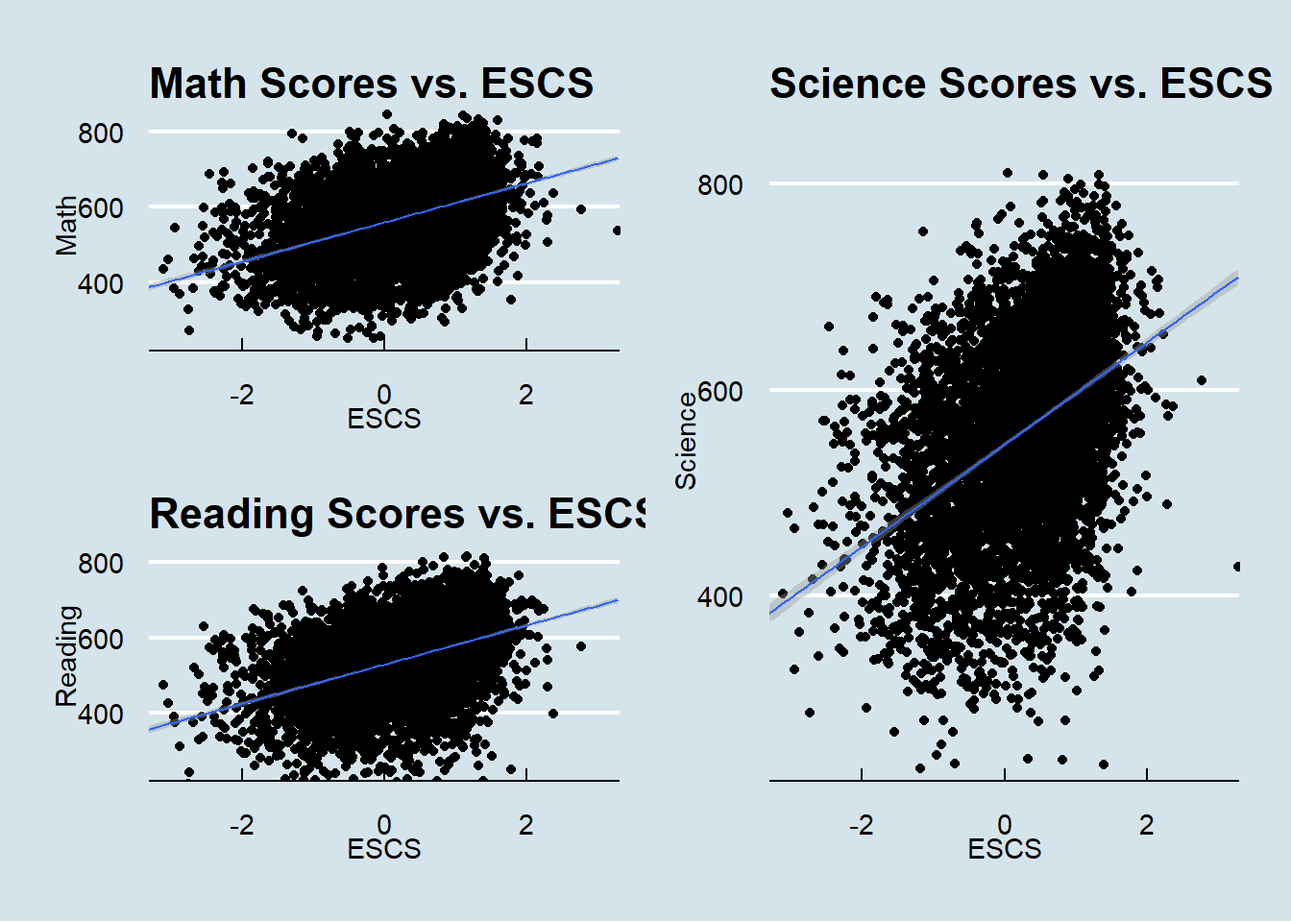
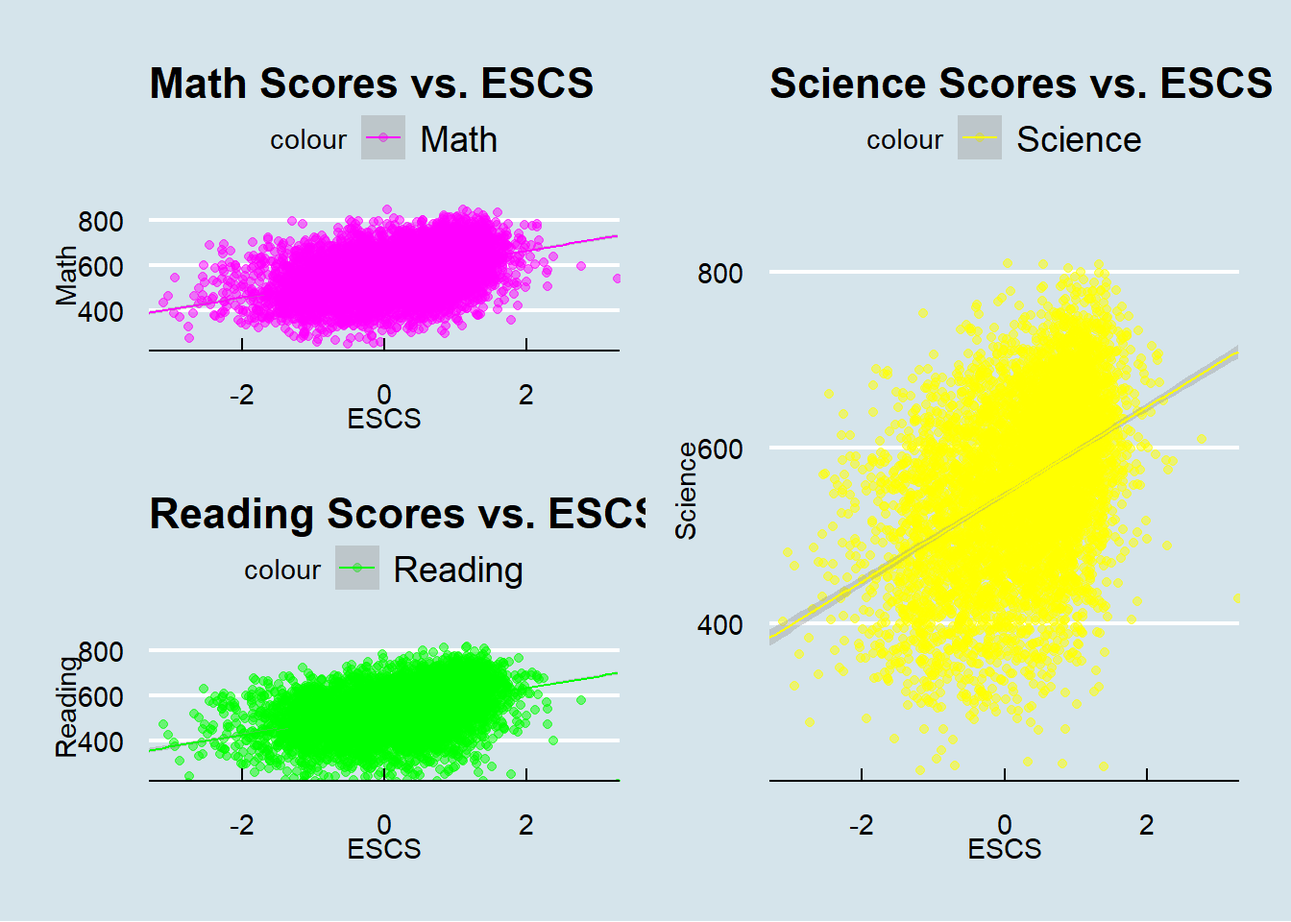
Commit after editing take-home_Ex01

diff --git a/_site/Take-home_Ex/Take-home_Ex01/Take-home_Ex01.html b/_site/Take-home_Ex/Take-home_Ex01/Take-home_Ex01.html
@@ -193,7 +193,7 @@ pre > code.sourceCode > span > a:first-child::before { text-decoration: underlin
   <ul class="collapse">
   <li><a href="#find-the-relative-math-score-data-in-stu_qqq_sg-dataset" id="toc-find-the-relative-math-score-data-in-stu_qqq_sg-dataset" class="nav-link" data-scroll-target="#find-the-relative-math-score-data-in-stu_qqq_sg-dataset">1.Find the relative math score data in ‘stu_qqq_SG’ dataset</a></li>
   <li><a href="#add-new-columns-for-mathreading-and-science" id="toc-add-new-columns-for-mathreading-and-science" class="nav-link" data-scroll-target="#add-new-columns-for-mathreading-and-science">2.Add new columns for math,reading and science</a></li>
-  <li><a href="#create-new-table-for-later-analysis" id="toc-create-new-table-for-later-analysis" class="nav-link" data-scroll-target="#create-new-table-for-later-analysis">3.Create new table for later analysis</a></li>
+  <li><a href="#create-new-clean-table-for-later-on-analysis" id="toc-create-new-clean-table-for-later-on-analysis" class="nav-link" data-scroll-target="#create-new-clean-table-for-later-on-analysis">3.Create new clean table for later-on analysis</a></li>
   </ul></li>
   </ul></li>
   <li><a href="#data-analysis" id="toc-data-analysis" class="nav-link" data-scroll-target="#data-analysis">4.DATA ANALYSIS</a>
@@ -302,6 +302,7 @@ pre > code.sourceCode > span > a:first-child::before { text-decoration: underlin
 </section>
 <section id="add-new-columns-for-mathreading-and-science" class="level3">
 <h3 class="anchored" data-anchor-id="add-new-columns-for-mathreading-and-science">2.Add new columns for math,reading and science</h3>
+<p>Calculate the average score of the three courses separately.</p>
 <div class="cell">
 <details>
 <summary>Code</summary>
@@ -314,8 +315,8 @@ pre > code.sourceCode > span > a:first-child::before { text-decoration: underlin
 </details>
 </div>
 </section>
-<section id="create-new-table-for-later-analysis" class="level3">
-<h3 class="anchored" data-anchor-id="create-new-table-for-later-analysis">3.Create new table for later analysis</h3>
+<section id="create-new-clean-table-for-later-on-analysis" class="level3">
+<h3 class="anchored" data-anchor-id="create-new-clean-table-for-later-on-analysis">3.Create new clean table for later-on analysis</h3>
 <p>Select relative columns and create new_data with 7 columns and 6606 ids. Then see the total view of the data, where find that there are 47 missing values which can be considered deleted.</p>
 <div class="cell">
 <details>
@@ -402,6 +403,7 @@ pre > code.sourceCode > span > a:first-child::before { text-decoration: underlin
 </section>
 <section id="subject-performance-by-different-schools" class="level2">
 <h2 class="anchored" data-anchor-id="subject-performance-by-different-schools">4.3 Subject Performance by different schools</h2>
+<p>From the plot, we could see that students in school 003 get highest score in math and science. Students in school 062 get the highest score in subject. However, students in school 149 perform the worst in all three courses.</p>
 <div class="cell">
 <details>
 <summary>Code</summary>
@@ -415,49 +417,39 @@ pre > code.sourceCode > span > a:first-child::before { text-decoration: underlin
 <span id="cb11-8"><a href="#cb11-8" aria-hidden="true" tabindex="-1"></a>    <span class="at">.groups =</span> <span class="st">'drop'</span></span>
 <span id="cb11-9"><a href="#cb11-9" aria-hidden="true" tabindex="-1"></a>  )</span>
 <span id="cb11-10"><a href="#cb11-10" aria-hidden="true" tabindex="-1"></a></span>
-<span id="cb11-11"><a href="#cb11-11" aria-hidden="true" tabindex="-1"></a><span class="co"># Find the top and bottom schools for each subject</span></span>
-<span id="cb11-12"><a href="#cb11-12" aria-hidden="true" tabindex="-1"></a>top_bottom_schools <span class="ot">&lt;-</span> school_averages <span class="sc">%&gt;%</span></span>
-<span id="cb11-13"><a href="#cb11-13" aria-hidden="true" tabindex="-1"></a>  <span class="fu">summarize</span>(</span>
-<span id="cb11-14"><a href="#cb11-14" aria-hidden="true" tabindex="-1"></a>    <span class="at">Top_Math_ID =</span> CNTSCHID[<span class="fu">which.max</span>(Math)],</span>
-<span id="cb11-15"><a href="#cb11-15" aria-hidden="true" tabindex="-1"></a>    <span class="at">Top_Math_Score =</span> <span class="fu">max</span>(Math),</span>
-<span id="cb11-16"><a href="#cb11-16" aria-hidden="true" tabindex="-1"></a>    <span class="at">Bottom_Math_ID =</span> CNTSCHID[<span class="fu">which.min</span>(Math)],</span>
-<span id="cb11-17"><a href="#cb11-17" aria-hidden="true" tabindex="-1"></a>    <span class="at">Bottom_Math_Score =</span> <span class="fu">min</span>(Math),</span>
-<span id="cb11-18"><a href="#cb11-18" aria-hidden="true" tabindex="-1"></a>    <span class="at">Top_Reading_ID =</span> CNTSCHID[<span class="fu">which.max</span>(Reading)],</span>
-<span id="cb11-19"><a href="#cb11-19" aria-hidden="true" tabindex="-1"></a>    <span class="at">Top_Reading_Score =</span> <span class="fu">max</span>(Reading),</span>
-<span id="cb11-20"><a href="#cb11-20" aria-hidden="true" tabindex="-1"></a>    <span class="at">Bottom_Reading_ID =</span> CNTSCHID[<span class="fu">which.min</span>(Reading)],</span>
-<span id="cb11-21"><a href="#cb11-21" aria-hidden="true" tabindex="-1"></a>    <span class="at">Bottom_Reading_Score =</span> <span class="fu">min</span>(Reading),</span>
-<span id="cb11-22"><a href="#cb11-22" aria-hidden="true" tabindex="-1"></a>    <span class="at">Top_Science_ID =</span> CNTSCHID[<span class="fu">which.max</span>(Science)],</span>
-<span id="cb11-23"><a href="#cb11-23" aria-hidden="true" tabindex="-1"></a>    <span class="at">Top_Science_Score =</span> <span class="fu">max</span>(Science),</span>
-<span id="cb11-24"><a href="#cb11-24" aria-hidden="true" tabindex="-1"></a>    <span class="at">Bottom_Science_ID =</span> CNTSCHID[<span class="fu">which.min</span>(Science)],</span>
-<span id="cb11-25"><a href="#cb11-25" aria-hidden="true" tabindex="-1"></a>    <span class="at">Bottom_Science_Score =</span> <span class="fu">min</span>(Science)</span>
-<span id="cb11-26"><a href="#cb11-26" aria-hidden="true" tabindex="-1"></a>  )</span>
-<span id="cb11-27"><a href="#cb11-27" aria-hidden="true" tabindex="-1"></a></span>
-<span id="cb11-28"><a href="#cb11-28" aria-hidden="true" tabindex="-1"></a><span class="co"># Reshape for plotting</span></span>
-<span id="cb11-29"><a href="#cb11-29" aria-hidden="true" tabindex="-1"></a>school_averages_long <span class="ot">&lt;-</span> school_averages <span class="sc">%&gt;%</span></span>
-<span id="cb11-30"><a href="#cb11-30" aria-hidden="true" tabindex="-1"></a>  <span class="fu">pivot_longer</span>(</span>
-<span id="cb11-31"><a href="#cb11-31" aria-hidden="true" tabindex="-1"></a>    <span class="at">cols =</span> <span class="fu">c</span>(Math, Reading, Science),</span>
-<span id="cb11-32"><a href="#cb11-32" aria-hidden="true" tabindex="-1"></a>    <span class="at">names_to =</span> <span class="st">"Subject"</span>,</span>
-<span id="cb11-33"><a href="#cb11-33" aria-hidden="true" tabindex="-1"></a>    <span class="at">values_to =</span> <span class="st">"Average_Score"</span></span>
-<span id="cb11-34"><a href="#cb11-34" aria-hidden="true" tabindex="-1"></a>  )</span>
-<span id="cb11-35"><a href="#cb11-35" aria-hidden="true" tabindex="-1"></a></span>
-<span id="cb11-36"><a href="#cb11-36" aria-hidden="true" tabindex="-1"></a><span class="co"># Create the plot</span></span>
-<span id="cb11-37"><a href="#cb11-37" aria-hidden="true" tabindex="-1"></a><span class="fu">ggplot</span>(school_averages_long, <span class="fu">aes</span>(<span class="at">x =</span> Subject, <span class="at">y =</span> Average_Score)) <span class="sc">+</span></span>
-<span id="cb11-38"><a href="#cb11-38" aria-hidden="true" tabindex="-1"></a>  <span class="fu">geom_jitter</span>(<span class="fu">aes</span>(<span class="at">color =</span> CNTSCHID), <span class="at">width =</span> <span class="fl">0.2</span>) <span class="sc">+</span></span>
-<span id="cb11-39"><a href="#cb11-39" aria-hidden="true" tabindex="-1"></a>  <span class="fu">geom_text</span>(<span class="at">data =</span> top_bottom_schools, <span class="fu">aes</span>(<span class="at">x =</span> <span class="dv">1</span>, <span class="at">y =</span> Top_Math_Score, <span class="at">label =</span> Top_Math_ID), <span class="at">vjust =</span> <span class="dv">2</span>) <span class="sc">+</span></span>
-<span id="cb11-40"><a href="#cb11-40" aria-hidden="true" tabindex="-1"></a>  <span class="fu">geom_text</span>(<span class="at">data =</span> top_bottom_schools, <span class="fu">aes</span>(<span class="at">x =</span> <span class="dv">1</span>, <span class="at">y =</span> Bottom_Math_Score, <span class="at">label =</span> Bottom_Math_ID), <span class="at">vjust =</span> <span class="dv">2</span>) <span class="sc">+</span></span>
-<span id="cb11-41"><a href="#cb11-41" aria-hidden="true" tabindex="-1"></a>  <span class="fu">geom_text</span>(<span class="at">data =</span> top_bottom_schools, <span class="fu">aes</span>(<span class="at">x =</span> <span class="dv">2</span>, <span class="at">y =</span> Top_Reading_Score, <span class="at">label =</span> Top_Reading_ID), <span class="at">vjust =</span> <span class="sc">-</span><span class="dv">1</span>) <span class="sc">+</span></span>
-<span id="cb11-42"><a href="#cb11-42" aria-hidden="true" tabindex="-1"></a>  <span class="fu">geom_text</span>(<span class="at">data =</span> top_bottom_schools, <span class="fu">aes</span>(<span class="at">x =</span> <span class="dv">2</span>, <span class="at">y =</span> Bottom_Reading_Score, <span class="at">label =</span> Bottom_Reading_ID), <span class="at">vjust =</span> <span class="sc">-</span><span class="dv">1</span>) <span class="sc">+</span></span>
-<span id="cb11-43"><a href="#cb11-43" aria-hidden="true" tabindex="-1"></a>  <span class="fu">geom_text</span>(<span class="at">data =</span> top_bottom_schools, <span class="fu">aes</span>(<span class="at">x =</span> <span class="dv">3</span>, <span class="at">y =</span> Top_Science_Score, <span class="at">label =</span> Top_Science_ID), <span class="at">vjust =</span> <span class="sc">-</span><span class="dv">1</span>) <span class="sc">+</span></span>
-<span id="cb11-44"><a href="#cb11-44" aria-hidden="true" tabindex="-1"></a>  <span class="fu">geom_text</span>(<span class="at">data =</span> top_bottom_schools, <span class="fu">aes</span>(<span class="at">x =</span> <span class="dv">3</span>, <span class="at">y =</span> Bottom_Science_Score, <span class="at">label =</span> Bottom_Science_ID), <span class="at">vjust =</span> <span class="dv">2</span>) <span class="sc">+</span></span>
-<span id="cb11-45"><a href="#cb11-45" aria-hidden="true" tabindex="-1"></a>  <span class="fu">labs</span>(<span class="at">title =</span> <span class="st">"Average Scores by Subject and School"</span>, <span class="at">x =</span> <span class="st">"Subject"</span>, <span class="at">y =</span> <span class="st">"Average Score"</span>) <span class="sc">+</span></span>
-<span id="cb11-46"><a href="#cb11-46" aria-hidden="true" tabindex="-1"></a>  <span class="fu">theme_minimal</span>() <span class="sc">+</span></span>
-<span id="cb11-47"><a href="#cb11-47" aria-hidden="true" tabindex="-1"></a>  <span class="fu">theme</span>(<span class="at">legend.position =</span> <span class="st">"none"</span>) <span class="co"># Hide the legend to clean up the plot</span></span></code><button title="Copy to Clipboard" class="code-copy-button"><i class="bi"></i></button></pre></div>
+<span id="cb11-11"><a href="#cb11-11" aria-hidden="true" tabindex="-1"></a><span class="co"># Reshape the data to a long format for plotting</span></span>
+<span id="cb11-12"><a href="#cb11-12" aria-hidden="true" tabindex="-1"></a>school_averages_long <span class="ot">&lt;-</span> school_averages <span class="sc">%&gt;%</span></span>
+<span id="cb11-13"><a href="#cb11-13" aria-hidden="true" tabindex="-1"></a>  <span class="fu">pivot_longer</span>(</span>
+<span id="cb11-14"><a href="#cb11-14" aria-hidden="true" tabindex="-1"></a>    <span class="at">cols =</span> <span class="fu">c</span>(Math, Reading, Science),</span>
+<span id="cb11-15"><a href="#cb11-15" aria-hidden="true" tabindex="-1"></a>    <span class="at">names_to =</span> <span class="st">"Subject"</span>,</span>
+<span id="cb11-16"><a href="#cb11-16" aria-hidden="true" tabindex="-1"></a>    <span class="at">values_to =</span> <span class="st">"Average_Score"</span></span>
+<span id="cb11-17"><a href="#cb11-17" aria-hidden="true" tabindex="-1"></a>  )</span>
+<span id="cb11-18"><a href="#cb11-18" aria-hidden="true" tabindex="-1"></a></span>
+<span id="cb11-19"><a href="#cb11-19" aria-hidden="true" tabindex="-1"></a><span class="co"># Find the top and bottom schools for each subject</span></span>
+<span id="cb11-20"><a href="#cb11-20" aria-hidden="true" tabindex="-1"></a>top_schools <span class="ot">&lt;-</span> school_averages_long <span class="sc">%&gt;%</span></span>
+<span id="cb11-21"><a href="#cb11-21" aria-hidden="true" tabindex="-1"></a>  <span class="fu">group_by</span>(Subject) <span class="sc">%&gt;%</span></span>
+<span id="cb11-22"><a href="#cb11-22" aria-hidden="true" tabindex="-1"></a>  <span class="fu">slice_max</span>(Average_Score, <span class="at">n =</span> <span class="dv">1</span>) <span class="sc">%&gt;%</span></span>
+<span id="cb11-23"><a href="#cb11-23" aria-hidden="true" tabindex="-1"></a>  <span class="fu">ungroup</span>()</span>
+<span id="cb11-24"><a href="#cb11-24" aria-hidden="true" tabindex="-1"></a></span>
+<span id="cb11-25"><a href="#cb11-25" aria-hidden="true" tabindex="-1"></a>bottom_schools <span class="ot">&lt;-</span> school_averages_long <span class="sc">%&gt;%</span></span>
+<span id="cb11-26"><a href="#cb11-26" aria-hidden="true" tabindex="-1"></a>  <span class="fu">group_by</span>(Subject) <span class="sc">%&gt;%</span></span>
+<span id="cb11-27"><a href="#cb11-27" aria-hidden="true" tabindex="-1"></a>  <span class="fu">slice_min</span>(Average_Score, <span class="at">n =</span> <span class="dv">1</span>) <span class="sc">%&gt;%</span></span>
+<span id="cb11-28"><a href="#cb11-28" aria-hidden="true" tabindex="-1"></a>  <span class="fu">ungroup</span>()</span>
+<span id="cb11-29"><a href="#cb11-29" aria-hidden="true" tabindex="-1"></a></span>
+<span id="cb11-30"><a href="#cb11-30" aria-hidden="true" tabindex="-1"></a><span class="co"># Create the scatter plot</span></span>
+<span id="cb11-31"><a href="#cb11-31" aria-hidden="true" tabindex="-1"></a><span class="fu">ggplot</span>(school_averages_long, <span class="fu">aes</span>(<span class="at">x =</span> Subject, <span class="at">y =</span> Average_Score)) <span class="sc">+</span></span>
+<span id="cb11-32"><a href="#cb11-32" aria-hidden="true" tabindex="-1"></a>  <span class="fu">geom_point</span>(<span class="fu">aes</span>(<span class="at">color =</span> CNTSCHID), <span class="at">position =</span> <span class="fu">position_jitterdodge</span>()) <span class="sc">+</span></span>
+<span id="cb11-33"><a href="#cb11-33" aria-hidden="true" tabindex="-1"></a>  <span class="fu">labs</span>(<span class="at">title =</span> <span class="st">"Subject Performance by Different Schools"</span>,</span>
+<span id="cb11-34"><a href="#cb11-34" aria-hidden="true" tabindex="-1"></a>       <span class="at">x =</span> <span class="st">"Subject"</span>, </span>
+<span id="cb11-35"><a href="#cb11-35" aria-hidden="true" tabindex="-1"></a>       <span class="at">y =</span> <span class="st">"Average Score"</span>) <span class="sc">+</span></span>
+<span id="cb11-36"><a href="#cb11-36" aria-hidden="true" tabindex="-1"></a>  <span class="fu">theme_minimal</span>() <span class="sc">+</span></span>
+<span id="cb11-37"><a href="#cb11-37" aria-hidden="true" tabindex="-1"></a>  <span class="fu">geom_text</span>(<span class="at">data =</span> top_schools, <span class="fu">aes</span>(<span class="at">label =</span> CNTSCHID), <span class="at">vjust =</span> <span class="dv">2</span>, <span class="at">color =</span> <span class="st">"blue"</span>) <span class="sc">+</span></span>
+<span id="cb11-38"><a href="#cb11-38" aria-hidden="true" tabindex="-1"></a>  <span class="fu">geom_text</span>(<span class="at">data =</span> bottom_schools, <span class="fu">aes</span>(<span class="at">label =</span> CNTSCHID), <span class="at">vjust =</span> <span class="dv">1</span>, <span class="at">color =</span> <span class="st">"red"</span>)</span></code><button title="Copy to Clipboard" class="code-copy-button"><i class="bi"></i></button></pre></div>
 </details>
 <div class="cell-output-display">
 <p><img src="Take-home_Ex01_files/figure-html/unnamed-chunk-8-1.png" class="img-fluid" width="672"></p>
 </div>
 </div>
-<p>From the plot, we could see that students in school 003 get highest score in math and science. Students in school 062 get the highest score in subject. However, students in school 149 perform the worst in all three courses.</p>
 </section>
 <section id="subject-performance-by-socioeconomic-status" class="level2">
 <h2 class="anchored" data-anchor-id="subject-performance-by-socioeconomic-status">4.4 Subject Performance by socioeconomic status</h2>
@@ -465,34 +457,40 @@ pre > code.sourceCode > span > a:first-child::before { text-decoration: underlin
 <details>
 <summary>Code</summary>
 <div class="sourceCode cell-code" id="cb12"><pre class="sourceCode r code-with-copy"><code class="sourceCode r"><span id="cb12-1"><a href="#cb12-1" aria-hidden="true" tabindex="-1"></a>theme_setting <span class="ot">&lt;-</span> <span class="fu">theme</span>(</span>
-<span id="cb12-2"><a href="#cb12-2" aria-hidden="true" tabindex="-1"></a>  <span class="at">plot.title =</span> <span class="fu">element_text</span>(<span class="at">size =</span> <span class="dv">10</span>),  <span class="co"># 设置标题文字大小为10</span></span>
+<span id="cb12-2"><a href="#cb12-2" aria-hidden="true" tabindex="-1"></a>  <span class="at">plot.title =</span> <span class="fu">element_text</span>(<span class="at">size =</span> <span class="dv">10</span>),</span>
 <span id="cb12-3"><a href="#cb12-3" aria-hidden="true" tabindex="-1"></a>  <span class="at">plot.subtitle =</span> <span class="fu">element_text</span>(<span class="at">size =</span> <span class="dv">8</span>),</span>
-<span id="cb12-4"><a href="#cb12-4" aria-hidden="true" tabindex="-1"></a>  <span class="at">plot.caption =</span> <span class="fu">element_text</span>(<span class="at">size =</span> <span class="dv">8</span>)</span>
-<span id="cb12-5"><a href="#cb12-5" aria-hidden="true" tabindex="-1"></a>)</span>
-<span id="cb12-6"><a href="#cb12-6" aria-hidden="true" tabindex="-1"></a></span>
-<span id="cb12-7"><a href="#cb12-7" aria-hidden="true" tabindex="-1"></a>p1 <span class="ot">&lt;-</span> <span class="fu">ggplot</span>(<span class="at">data=</span>new_data, <span class="fu">aes</span>(<span class="at">x=</span> ESCS, <span class="at">y=</span>Math)) <span class="sc">+</span></span>
-<span id="cb12-8"><a href="#cb12-8" aria-hidden="true" tabindex="-1"></a>  <span class="fu">geom_point</span>() <span class="sc">+</span></span>
-<span id="cb12-9"><a href="#cb12-9" aria-hidden="true" tabindex="-1"></a>  <span class="fu">geom_smooth</span>(<span class="at">method=</span>lm, <span class="at">linewidth=</span><span class="fl">0.5</span>) <span class="sc">+</span>  </span>
-<span id="cb12-10"><a href="#cb12-10" aria-hidden="true" tabindex="-1"></a>  <span class="fu">coord_cartesian</span>(<span class="at">xlim=</span><span class="fu">c</span>(<span class="sc">-</span><span class="dv">3</span>,<span class="dv">3</span>), <span class="at">ylim=</span><span class="fu">c</span>(<span class="dv">250</span>,<span class="dv">850</span>)) <span class="sc">+</span></span>
-<span id="cb12-11"><a href="#cb12-11" aria-hidden="true" tabindex="-1"></a>  <span class="fu">ggtitle</span>(<span class="st">"Math Scores vs. ESCS"</span>) <span class="sc">+</span>  </span>
-<span id="cb12-12"><a href="#cb12-12" aria-hidden="true" tabindex="-1"></a>  theme_setting</span>
-<span id="cb12-13"><a href="#cb12-13" aria-hidden="true" tabindex="-1"></a></span>
-<span id="cb12-14"><a href="#cb12-14" aria-hidden="true" tabindex="-1"></a>p2 <span class="ot">&lt;-</span> <span class="fu">ggplot</span>(<span class="at">data=</span>new_data, <span class="fu">aes</span>(<span class="at">x=</span> ESCS, <span class="at">y=</span>Reading)) <span class="sc">+</span></span>
-<span id="cb12-15"><a href="#cb12-15" aria-hidden="true" tabindex="-1"></a>  <span class="fu">geom_point</span>() <span class="sc">+</span></span>
-<span id="cb12-16"><a href="#cb12-16" aria-hidden="true" tabindex="-1"></a>  <span class="fu">geom_smooth</span>(<span class="at">method=</span>lm, <span class="at">linewidth=</span><span class="fl">0.5</span>) <span class="sc">+</span>  </span>
-<span id="cb12-17"><a href="#cb12-17" aria-hidden="true" tabindex="-1"></a>  <span class="fu">coord_cartesian</span>(<span class="at">xlim=</span><span class="fu">c</span>(<span class="sc">-</span><span class="dv">3</span>,<span class="dv">3</span>), <span class="at">ylim=</span><span class="fu">c</span>(<span class="dv">250</span>,<span class="dv">850</span>)) <span class="sc">+</span></span>
-<span id="cb12-18"><a href="#cb12-18" aria-hidden="true" tabindex="-1"></a>  <span class="fu">ggtitle</span>(<span class="st">"Reading Scores vs. ESCS"</span>) <span class="sc">+</span></span>
-<span id="cb12-19"><a href="#cb12-19" aria-hidden="true" tabindex="-1"></a>  theme_setting</span>
-<span id="cb12-20"><a href="#cb12-20" aria-hidden="true" tabindex="-1"></a></span>
-<span id="cb12-21"><a href="#cb12-21" aria-hidden="true" tabindex="-1"></a>p3 <span class="ot">&lt;-</span> <span class="fu">ggplot</span>(<span class="at">data=</span>new_data, <span class="fu">aes</span>(<span class="at">x=</span> ESCS, <span class="at">y=</span>Science)) <span class="sc">+</span></span>
-<span id="cb12-22"><a href="#cb12-22" aria-hidden="true" tabindex="-1"></a>  <span class="fu">geom_point</span>() <span class="sc">+</span></span>
-<span id="cb12-23"><a href="#cb12-23" aria-hidden="true" tabindex="-1"></a>  <span class="fu">geom_smooth</span>(<span class="at">method=</span>lm, <span class="at">linewidth=</span><span class="fl">0.5</span>) <span class="sc">+</span>  </span>
-<span id="cb12-24"><a href="#cb12-24" aria-hidden="true" tabindex="-1"></a>  <span class="fu">coord_cartesian</span>(<span class="at">xlim=</span><span class="fu">c</span>(<span class="sc">-</span><span class="dv">3</span>,<span class="dv">3</span>), <span class="at">ylim=</span><span class="fu">c</span>(<span class="dv">250</span>,<span class="dv">850</span>)) <span class="sc">+</span></span>
-<span id="cb12-25"><a href="#cb12-25" aria-hidden="true" tabindex="-1"></a>  <span class="fu">ggtitle</span>(<span class="st">"Science Scores vs. ESCS"</span>) <span class="sc">+</span></span>
-<span id="cb12-26"><a href="#cb12-26" aria-hidden="true" tabindex="-1"></a>  theme_setting</span>
-<span id="cb12-27"><a href="#cb12-27" aria-hidden="true" tabindex="-1"></a></span>
-<span id="cb12-28"><a href="#cb12-28" aria-hidden="true" tabindex="-1"></a>patchwork <span class="ot">&lt;-</span> (p1 <span class="sc">/</span> p2) <span class="sc">|</span> p3</span>
-<span id="cb12-29"><a href="#cb12-29" aria-hidden="true" tabindex="-1"></a>patchwork <span class="sc">&amp;</span> <span class="fu">theme_economist</span>()</span></code><button title="Copy to Clipboard" class="code-copy-button"><i class="bi"></i></button></pre></div>
+<span id="cb12-4"><a href="#cb12-4" aria-hidden="true" tabindex="-1"></a>  <span class="at">plot.caption =</span> <span class="fu">element_text</span>(<span class="at">size =</span> <span class="dv">8</span>),</span>
+<span id="cb12-5"><a href="#cb12-5" aria-hidden="true" tabindex="-1"></a>  <span class="at">axis.text.x =</span> <span class="fu">element_text</span>(<span class="at">angle =</span> <span class="dv">45</span>, <span class="at">hjust =</span> <span class="dv">1</span>) <span class="co"># Adjust for better readability</span></span>
+<span id="cb12-6"><a href="#cb12-6" aria-hidden="true" tabindex="-1"></a>)</span>
+<span id="cb12-7"><a href="#cb12-7" aria-hidden="true" tabindex="-1"></a></span>
+<span id="cb12-8"><a href="#cb12-8" aria-hidden="true" tabindex="-1"></a><span class="co"># Adjust the alpha and size in geom_point for transparency and smaller points</span></span>
+<span id="cb12-9"><a href="#cb12-9" aria-hidden="true" tabindex="-1"></a>p1 <span class="ot">&lt;-</span> <span class="fu">ggplot</span>(<span class="at">data=</span>new_data, <span class="fu">aes</span>(<span class="at">x=</span> ESCS, <span class="at">y=</span>Math, <span class="at">color =</span> <span class="st">"Math"</span>)) <span class="sc">+</span></span>
+<span id="cb12-10"><a href="#cb12-10" aria-hidden="true" tabindex="-1"></a>  <span class="fu">geom_point</span>(<span class="at">alpha =</span> <span class="fl">0.5</span>, <span class="at">size =</span> <span class="fl">1.5</span>) <span class="sc">+</span></span>
+<span id="cb12-11"><a href="#cb12-11" aria-hidden="true" tabindex="-1"></a>  <span class="fu">geom_smooth</span>(<span class="at">method=</span>lm, <span class="at">linewidth=</span><span class="fl">0.5</span>) <span class="sc">+</span>  </span>
+<span id="cb12-12"><a href="#cb12-12" aria-hidden="true" tabindex="-1"></a>  <span class="fu">coord_cartesian</span>(<span class="at">xlim=</span><span class="fu">c</span>(<span class="sc">-</span><span class="dv">3</span>,<span class="dv">3</span>), <span class="at">ylim=</span><span class="fu">c</span>(<span class="dv">250</span>,<span class="dv">850</span>)) <span class="sc">+</span></span>
+<span id="cb12-13"><a href="#cb12-13" aria-hidden="true" tabindex="-1"></a>  <span class="fu">ggtitle</span>(<span class="st">"Math Scores vs. ESCS"</span>) <span class="sc">+</span>  </span>
+<span id="cb12-14"><a href="#cb12-14" aria-hidden="true" tabindex="-1"></a>  theme_setting <span class="sc">+</span></span>
+<span id="cb12-15"><a href="#cb12-15" aria-hidden="true" tabindex="-1"></a>  <span class="fu">scale_color_manual</span>(<span class="at">values =</span> <span class="fu">c</span>(<span class="st">"Math"</span> <span class="ot">=</span> <span class="st">"magenta"</span>))</span>
+<span id="cb12-16"><a href="#cb12-16" aria-hidden="true" tabindex="-1"></a></span>
+<span id="cb12-17"><a href="#cb12-17" aria-hidden="true" tabindex="-1"></a>p2 <span class="ot">&lt;-</span> <span class="fu">ggplot</span>(<span class="at">data=</span>new_data, <span class="fu">aes</span>(<span class="at">x=</span> ESCS, <span class="at">y=</span>Reading, <span class="at">color =</span> <span class="st">"Reading"</span>)) <span class="sc">+</span></span>
+<span id="cb12-18"><a href="#cb12-18" aria-hidden="true" tabindex="-1"></a>  <span class="fu">geom_point</span>(<span class="at">alpha =</span> <span class="fl">0.5</span>, <span class="at">size =</span> <span class="fl">1.5</span>) <span class="sc">+</span></span>
+<span id="cb12-19"><a href="#cb12-19" aria-hidden="true" tabindex="-1"></a>  <span class="fu">geom_smooth</span>(<span class="at">method=</span>lm, <span class="at">linewidth=</span><span class="fl">0.5</span>) <span class="sc">+</span>  </span>
+<span id="cb12-20"><a href="#cb12-20" aria-hidden="true" tabindex="-1"></a>  <span class="fu">coord_cartesian</span>(<span class="at">xlim=</span><span class="fu">c</span>(<span class="sc">-</span><span class="dv">3</span>,<span class="dv">3</span>), <span class="at">ylim=</span><span class="fu">c</span>(<span class="dv">250</span>,<span class="dv">850</span>)) <span class="sc">+</span></span>
+<span id="cb12-21"><a href="#cb12-21" aria-hidden="true" tabindex="-1"></a>  <span class="fu">ggtitle</span>(<span class="st">"Reading Scores vs. ESCS"</span>) <span class="sc">+</span></span>
+<span id="cb12-22"><a href="#cb12-22" aria-hidden="true" tabindex="-1"></a>  theme_setting <span class="sc">+</span></span>
+<span id="cb12-23"><a href="#cb12-23" aria-hidden="true" tabindex="-1"></a>  <span class="fu">scale_color_manual</span>(<span class="at">values =</span> <span class="fu">c</span>(<span class="st">"Reading"</span> <span class="ot">=</span> <span class="st">"green"</span>))</span>
+<span id="cb12-24"><a href="#cb12-24" aria-hidden="true" tabindex="-1"></a></span>
+<span id="cb12-25"><a href="#cb12-25" aria-hidden="true" tabindex="-1"></a>p3 <span class="ot">&lt;-</span> <span class="fu">ggplot</span>(<span class="at">data=</span>new_data, <span class="fu">aes</span>(<span class="at">x=</span> ESCS, <span class="at">y=</span>Science, <span class="at">color =</span> <span class="st">"Science"</span>)) <span class="sc">+</span></span>
+<span id="cb12-26"><a href="#cb12-26" aria-hidden="true" tabindex="-1"></a>  <span class="fu">geom_point</span>(<span class="at">alpha =</span> <span class="fl">0.5</span>, <span class="at">size =</span> <span class="fl">1.5</span>) <span class="sc">+</span></span>
+<span id="cb12-27"><a href="#cb12-27" aria-hidden="true" tabindex="-1"></a>  <span class="fu">geom_smooth</span>(<span class="at">method=</span>lm, <span class="at">linewidth=</span><span class="fl">0.5</span>) <span class="sc">+</span>  </span>
+<span id="cb12-28"><a href="#cb12-28" aria-hidden="true" tabindex="-1"></a>  <span class="fu">coord_cartesian</span>(<span class="at">xlim=</span><span class="fu">c</span>(<span class="sc">-</span><span class="dv">3</span>,<span class="dv">3</span>), <span class="at">ylim=</span><span class="fu">c</span>(<span class="dv">250</span>,<span class="dv">850</span>)) <span class="sc">+</span></span>
+<span id="cb12-29"><a href="#cb12-29" aria-hidden="true" tabindex="-1"></a>  <span class="fu">ggtitle</span>(<span class="st">"Science Scores vs. ESCS"</span>) <span class="sc">+</span></span>
+<span id="cb12-30"><a href="#cb12-30" aria-hidden="true" tabindex="-1"></a>  theme_setting <span class="sc">+</span></span>
+<span id="cb12-31"><a href="#cb12-31" aria-hidden="true" tabindex="-1"></a>  <span class="fu">scale_color_manual</span>(<span class="at">values =</span> <span class="fu">c</span>(<span class="st">"Science"</span> <span class="ot">=</span> <span class="st">"yellow"</span>))</span>
+<span id="cb12-32"><a href="#cb12-32" aria-hidden="true" tabindex="-1"></a></span>
+<span id="cb12-33"><a href="#cb12-33" aria-hidden="true" tabindex="-1"></a></span>
+<span id="cb12-34"><a href="#cb12-34" aria-hidden="true" tabindex="-1"></a>patchwork <span class="ot">&lt;-</span> (p1 <span class="sc">/</span> p2) <span class="sc">|</span> p3</span>
+<span id="cb12-35"><a href="#cb12-35" aria-hidden="true" tabindex="-1"></a>patchwork <span class="sc">&amp;</span> <span class="fu">theme_economist</span>()</span></code><button title="Copy to Clipboard" class="code-copy-button"><i class="bi"></i></button></pre></div>
 </details>
 <div class="cell-output-display">
 <p><img src="Take-home_Ex01_files/figure-html/unnamed-chunk-9-1.png" class="img-fluid" width="672"></p>
